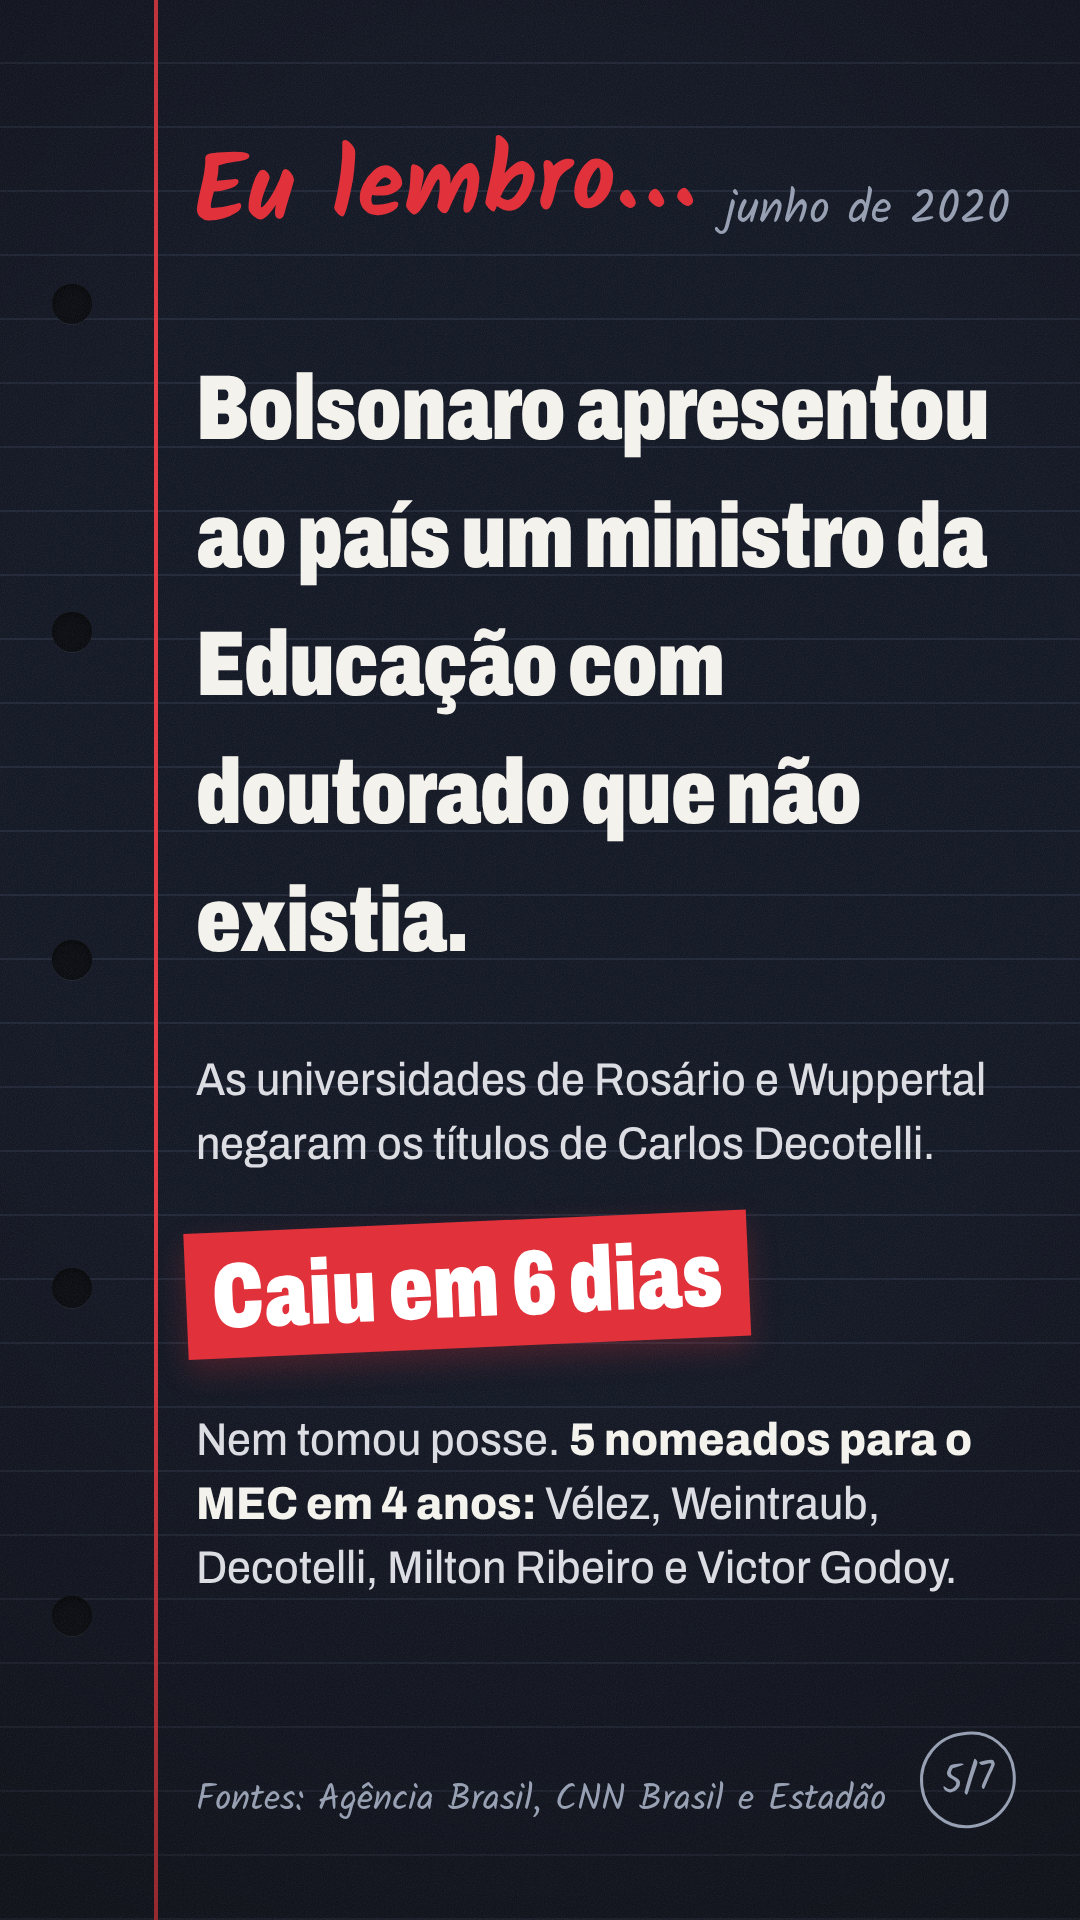
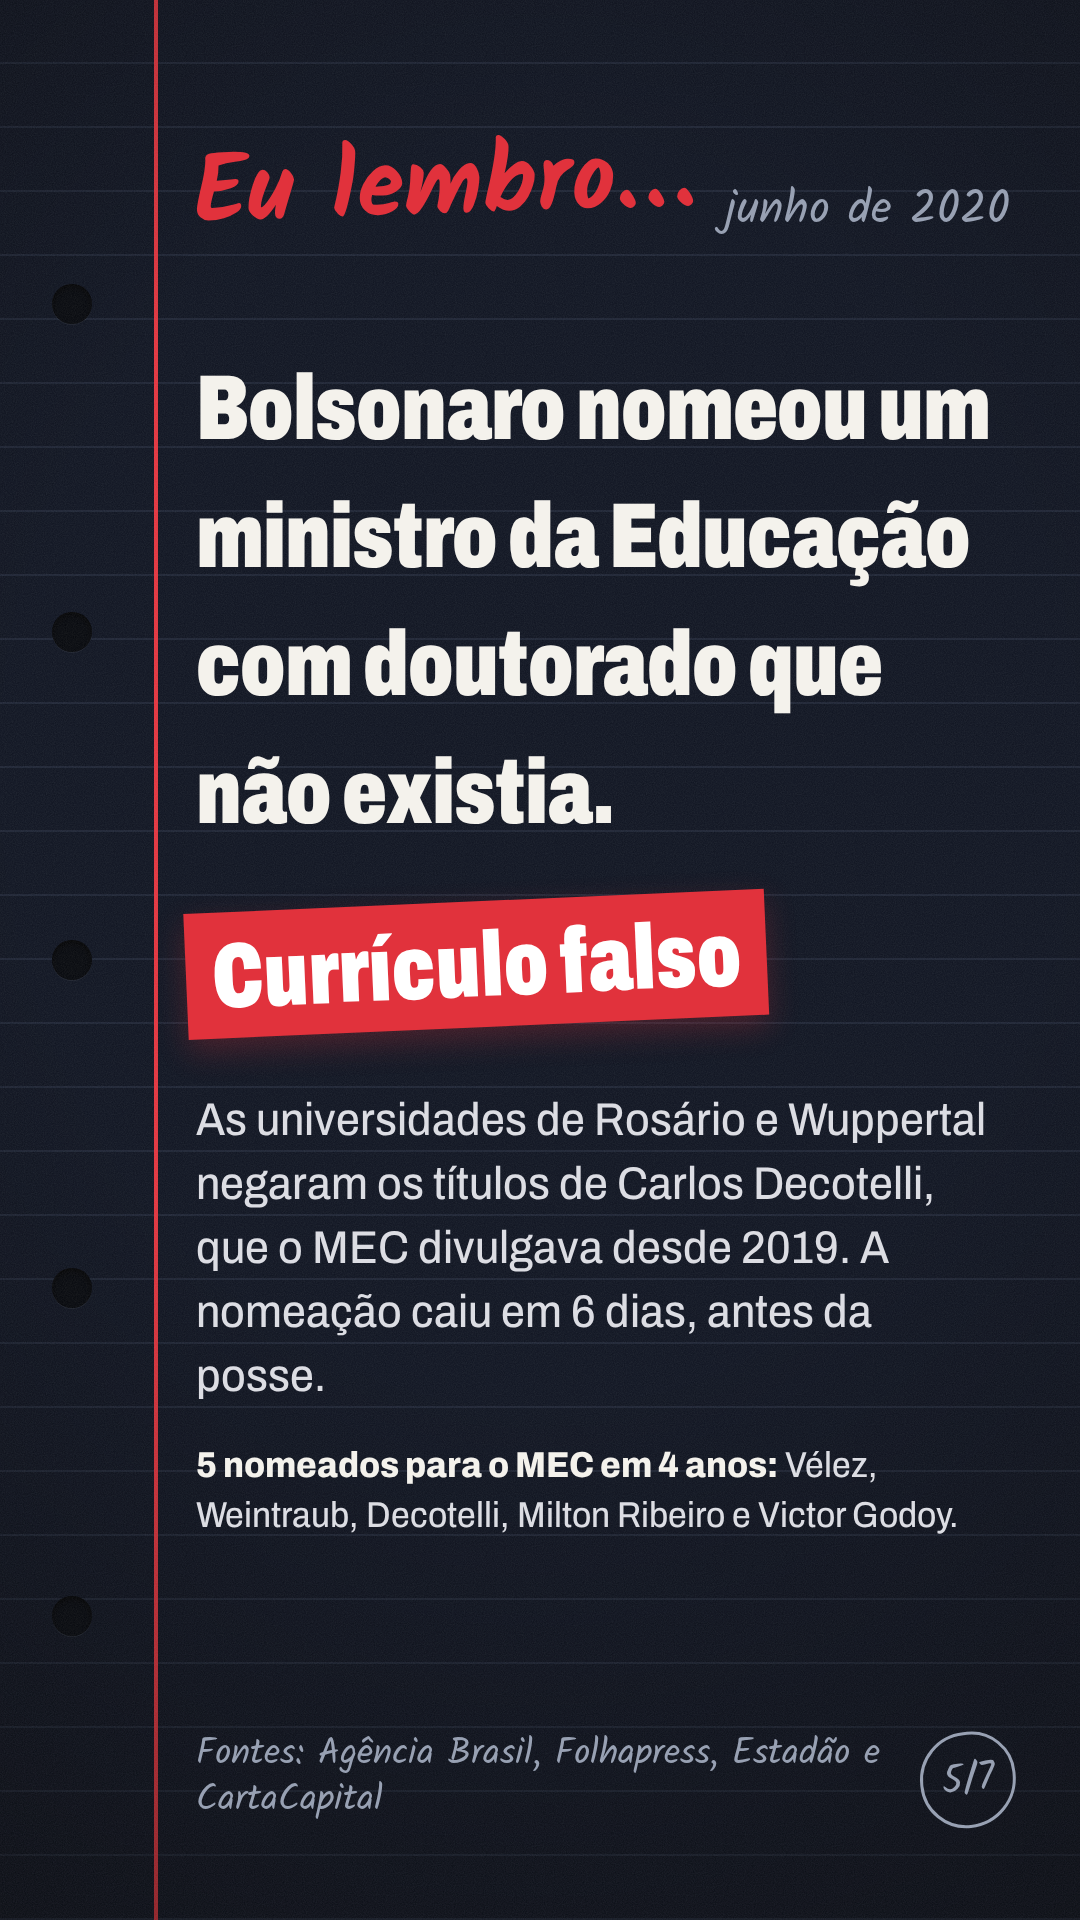
update readme

Changed region(s): [[0.1528, 0.1875, 0.9167, 0.8438], [0.1833, 0.9062, 0.825, 0.9688]]

diff --git a/eu-lembro/codigo/gerar_educacao.py b/eu-lembro/codigo/gerar_educacao.py
@@ -113,11 +113,11 @@ paginas.append(cartao(4, T, "2019 → 2020",
     fonte="Fontes: Gazeta do Povo, Congresso em Foco, Brasil de Fato, Andes-SN e Lei 15.367/2026"))
 
 paginas.append(cartao(5, T, "junho de 2020",
-    "Bolsonaro apresentou ao país um ministro da Educação com doutorado que não existia.", h1=92,
-    textos=["As universidades de Rosário e Wuppertal negaram os títulos de Carlos Decotelli."],
-    numero="Caiu em 6 dias", ordem="tn",
-    depois=['<p>Nem tomou posse. <b style="font-weight:800; color: var(--giz)">5 nomeados para o MEC em 4 anos:</b> Vélez, Weintraub, Decotelli, Milton Ribeiro e Victor Godoy.</p>'],
-    fonte="Fontes: Agência Brasil, CNN Brasil e Estadão"))
+    "Bolsonaro nomeou um ministro da Educação com doutorado que não existia.", h1=92,
+    numero="Currículo falso", ordem="nt",
+    textos=["As universidades de Rosário e Wuppertal negaram os títulos de Carlos Decotelli, que o MEC divulgava desde 2019. A nomeação caiu em 6 dias, antes da posse.",
+            '<p class="ctx" style="margin-top: 32px !important; font-size: 36px; line-height: 50px; color: #DCDDE3"><b style="font-weight:800; color: var(--giz)">5 nomeados para o MEC em 4 anos:</b> Vélez, Weintraub, Decotelli, Milton Ribeiro e Victor Godoy.</p>'],
+    fonte="Fontes: Agência Brasil, Folhapress, Estadão e CartaCapital"))
 
 paginas.append(cartao(6, T, "março de 2021",
     "Bolsonaro vetou internet para alunos na pandemia.", h1=100,
@@ -132,7 +132,6 @@ paginas.append(f"""<section class="pg capa">{furos()}
     <div class="grande" style="font-size: 165px">Eu lembro.<br><em>E você?</em></div>
     <h1 style="margin-top: 96px; font-size: 100px">Não vamos deixar que isso ocorra <span class="risco">novamente.</span></h1>
     <p style="margin-top: 64px">Todos os fatos vêm de atos oficiais, auditorias e imprensa de referência.</p>
-    <p>Esta é uma seleção sobre o governo Bolsonaro. O estudo completo compara o governo Bolsonaro e o atual governo Lula, com as mesmas regras para os dois.</p>
     <p class="ctx" style="margin-top: 40px !important; max-width: 660px">Dados e fontes: github.com/gavelino/pesquisa-politica</p>
   </div>
   <div class="pag">{T}/{T}</div></section>""")

diff --git a/eu-lembro/codigo/gerar_saude.py b/eu-lembro/codigo/gerar_saude.py
@@ -148,7 +148,6 @@ paginas.append(f"""<section class="pg capa">{furos()}
     <div class="grande" style="font-size: 165px">Eu lembro.<br><em>E você?</em></div>
     <h1 style="margin-top: 96px; font-size: 100px">Não vamos deixar que isso ocorra <span class="risco">novamente.</span></h1>
     <p style="margin-top: 64px">Todos os fatos vêm de atos oficiais, auditorias e imprensa de referência.</p>
-    <p>Esta é uma seleção sobre o governo Bolsonaro. O estudo completo compara o governo Bolsonaro e o atual governo Lula, com as mesmas regras para os dois.</p>
     <p class="ctx" style="margin-top: 40px !important; max-width: 660px">Dados e fontes: github.com/gavelino/pesquisa-politica</p>
   </div>
   <div class="pag">{T}/{T}</div></section>""")

diff --git a/eu-lembro/README.md b/eu-lembro/README.md
@@ -2,8 +2,6 @@
 
 Dois stories para o Status do WhatsApp (1080×1920) com fatos documentados sobre educação e saúde no governo Jair Bolsonaro (2019–2022). Cada cartão traz as suas fontes, e cada fonte está listada com link na pasta [`fontes/`](fontes/).
 
-> **Transparência.** Estes stories são uma **seleção** de fatos sobre um dos governos. Eles derivam de dois estudos comparativos que analisam o governo Bolsonaro (2019–2022) e o atual governo Lula (2023–), com as mesmas regras para os dois. Os estudos completos, com achados favoráveis e desfavoráveis a ambos, estão nos links da seção [Estudos de origem](#estudos-de-origem).
-
 ## Stories
 
 ### Educação (7 cartões)
@@ -14,7 +12,7 @@ Dois stories para o Status do WhatsApp (1080×1920) com fatos documentados sobre
 | 2 | [02-universidades.png](stories/educacao/02-universidades.png) | O orçamento das universidades federais encolheu 30% em valores reais (2019→2021) |
 | 3 | [03-bloqueio.png](stories/educacao/03-bloqueio.png) | Bloqueio de 30% da verba de universidades acusadas de "balbúrdia" (abr/2019) |
 | 4 | [04-reitores.png](stories/educacao/04-reitores.png) | Nomeação de reitores que não lideravam a lista; caso da UFPI; Lei 15.367/2026 |
-| 5 | [05-ministro-curriculo.png](stories/educacao/05-ministro-curriculo.png) | Ministro anunciado com doutorado que não existia; 5 nomeados para o MEC em 4 anos |
+| 5 | [05-ministro-curriculo.png](stories/educacao/05-ministro-curriculo.png) | Ministro nomeado com currículo falso (doutorado que não existia); 5 nomeados para o MEC em 4 anos |
 | 6 | [06-internet-veto.png](stories/educacao/06-internet-veto.png) | Veto à internet para 18,6 milhões de alunos e 1,6 milhão de professores na pandemia (mar/2021) |
 | 7 | [07-fechamento.png](stories/educacao/07-fechamento.png) | Fechamento |
 
@@ -33,7 +31,7 @@ Dois stories para o Status do WhatsApp (1080×1920) com fatos documentados sobre
 
 ## Regras de checagem
 
-Os fatos seguem a hierarquia de evidência dos estudos de origem:
+Os fatos seguem esta hierarquia de evidência:
 
 - **A:** dado oficial ou ato publicado (Diário Oficial, SIOP, Ministério da Saúde, leis).
 - **B:** órgão de controle (TCU, CGU) ou literatura revisada por pares.
@@ -42,12 +40,12 @@ Os fatos seguem a hierarquia de evidência dos estudos de origem:
 
 Fatos contestados ou sobre investigações exigem pelo menos dois veículos independentes. Investigações são descritas com o status exato, sem equivaler a condenação. Quando a pessoa citada contesta o fato, a versão dela aparece no próprio cartão. Os números de mortes são apresentados sem atribuição causal a governo.
 
-## Estudos de origem
+## Estudo de origem
 
-- Ações efetivas em Educação: Lula 3 × governo Bolsonaro. [Relatório técnico](https://claude.ai/code/artifact/11a701ec-1831-4fb4-b2cc-714e44ba818e)
-- Ações efetivas em Saúde: Lula 3 × governo Bolsonaro. [Relatório técnico](https://claude.ai/code/artifact/7b715472-226a-4b81-ba92-f840f411d9c2)
+Os fatos do story de Educação vêm do estudo comparativo **"Educação: ações efetivas do governo Lula 3 (2023–2026) x grupo Bolsonaro (2019–2022)"**, que segue um protocolo PICOC congelado antes da coleta e aplica as mesmas regras aos dois governos. Dados, fontes, extrações e relatórios: [github.com/gavelino/pesquisa-politica-educacao-2026](https://github.com/gavelino/pesquisa-politica-educacao-2026).
 
-Veja também o [README principal](../README.md) deste repositório.
+- [Relatório resumido](https://github.com/gavelino/pesquisa-politica-educacao-2026/blob/main/relatorios/relatorio_publico_geral.pdf) (PDF)
+- [Relatório técnico completo](https://github.com/gavelino/pesquisa-politica-educacao-2026/blob/main/relatorios/relatorio_tecnico.pdf) (PDF)
 
 ## Como reproduzir os cartões
 

diff --git a/README.md b/README.md
@@ -2,23 +2,18 @@
 
 Pesquisa política com dados para decisão embasada.
 
-Este repositório reúne estudos que comparam **ações efetivas** de governos, ou seja, o que foi feito quando houve poder de decisão (atos publicados, execução orçamentária, programas, auditorias), e não promessas ou discursos. Também reúne materiais de divulgação derivados desses estudos.
+Este repositório torna públicos os dados e as fontes usados nos stories **"Eu lembro"**, sobre educação e saúde no governo Jair Bolsonaro (2019–2022), publicados no Status do WhatsApp.
 
-## Estudos
+- [`eu-lembro/`](eu-lembro/): os cartões em imagem, a lista de fontes de cada fato (com links) e os scripts que geram as imagens.
 
-Os estudos comparam o governo Lula 3 (2023–) e o governo Jair Bolsonaro (2019–2022), este último como referência do grupo político de Flávio Bolsonaro. Seguem um protocolo PICOC congelado antes da coleta, com as mesmas fontes, buscas e indicadores para os dois governos, valores deflacionados pelo IPCA e sem índice composto.
+Todos os fatos vêm de atos oficiais, auditorias e imprensa de referência. Os critérios de checagem estão no [README dos stories](eu-lembro/README.md#regras-de-checagem).
 
-| Tema | Relatório técnico |
-|---|---|
-| Educação | [Ações efetivas em Educação: Lula 3 × grupo Bolsonaro](https://claude.ai/code/artifact/11a701ec-1831-4fb4-b2cc-714e44ba818e) |
-| Saúde | [Saúde: ações efetivas Lula 3 × grupo Bolsonaro](https://claude.ai/code/artifact/7b715472-226a-4b81-ba92-f840f411d9c2) |
-| Segurança Pública | [Relatório técnico](https://claude.ai/code/artifact/04cc0438-9074-4c3b-b40f-41a37c234cb3) |
+## Estudo de origem
 
-Coleta, verificação e redação dos estudos foram feitas por IA, de propósito, para reduzir vieses humanos num tema polêmico. Não houve validação humana das conclusões.
+Os fatos do story de Educação vêm do estudo comparativo **"Educação: ações efetivas do governo Lula 3 (2023–2026) x grupo Bolsonaro (2019–2022)"**, que segue um protocolo PICOC congelado antes da coleta e aplica as mesmas regras aos dois governos. Dados, fontes, extrações e relatórios: [github.com/gavelino/pesquisa-politica-educacao-2026](https://github.com/gavelino/pesquisa-politica-educacao-2026).
 
-## Materiais de divulgação
-
-- [`eu-lembro/`](eu-lembro/): stories para o Status do WhatsApp sobre educação e saúde no governo Bolsonaro (2019–2022). É uma **seleção** de fatos sobre um dos governos, derivada dos estudos acima, com fonte e link para cada fato.
+- [Relatório resumido](https://github.com/gavelino/pesquisa-politica-educacao-2026/blob/main/relatorios/relatorio_publico_geral.pdf) (PDF)
+- [Relatório técnico completo](https://github.com/gavelino/pesquisa-politica-educacao-2026/blob/main/relatorios/relatorio_tecnico.pdf) (PDF)
 
 ## Licença
 

diff --git a/eu-lembro/fontes/educacao.md b/eu-lembro/fontes/educacao.md
@@ -1,6 +1,6 @@
 # Fontes: story de Educação
 
-Data de acesso das fontes de imprensa: 22/10/2026. Nível de evidência conforme o [README](../README.md#regras-de-checagem). "Relatório técnico" = [Ações efetivas em Educação: Lula 3 × grupo Bolsonaro](https://claude.ai/code/artifact/11a701ec-1831-4fb4-b2cc-714e44ba818e).
+Data de acesso das fontes de imprensa: 22/10/2026. Nível de evidência conforme o [README](../README.md#regras-de-checagem). "Relatório técnico" = [relatório técnico do estudo comparativo de Educação](https://github.com/gavelino/pesquisa-politica-educacao-2026/blob/main/relatorios/relatorio_tecnico.pdf), cujos dados, fontes e extrações estão em [github.com/gavelino/pesquisa-politica-educacao-2026](https://github.com/gavelino/pesquisa-politica-educacao-2026).
 
 ## 02 · Orçamento das universidades federais (2019→2021)
 
@@ -30,11 +30,13 @@ Data de acesso das fontes de imprensa: 22/10/2026. Nível de evidência conforme
 
 ## 05 · Ministro com doutorado que não existia (jun/2020)
 
-- **Fato:** Carlos Decotelli foi anunciado pelo presidente como doutor (Univ. Nacional de Rosário) e pós-doutor (Univ. de Wuppertal). As duas universidades negaram os títulos. A nomeação foi anulada antes da posse.
+- **Fato:** Carlos Decotelli foi anunciado pelo presidente como doutor (Univ. Nacional de Rosário) e pós-doutor (Univ. de Wuppertal). As duas universidades negaram os títulos, que o MEC divulgava desde 2019. A nomeação caiu em 6 dias, antes da posse. O cartão usa "currículo falso" no sentido de currículo com informações falsas, como registrado pela imprensa; não afirma intenção nem crime.
 - **Fontes (D):**
   - Correio Braziliense (Rosário; edição do Lattes): https://www.correiobraziliense.com.br/app/noticia/politica/2020/06/27/interna_politica,867438/ministro-da-educacao-muda-curriculo-apos-reitor-desmentir-sobre-doutor.shtml
   - Jornal de Brasília (Wuppertal; anúncio do presidente): https://jornaldebrasilia.com.br/noticias/politica-e-poder/universidade-alema-nega-que-ministro-da-educacao-tenha-obtido-pos-doutorado/
   - Estadão, via O Povo (versão de Decotelli): https://www.opovo.com.br/noticias/politica/2020/06/29/decotelli-nega-plagio-e-apos-reuniao-com-bolsonaro-afirma-ser-ministro.html
+  - Folhapress, via Banda B ("falsidades" no currículo; edição do Lattes): https://www.bandab.com.br/?p=599206
+  - CartaCapital (o MEC divulgava os títulos desde a passagem dele pelo FNDE): https://www.cartacapital.com.br/?p=133766
 - **Fato:** 5 nomeados para o MEC em 4 anos (Vélez, Weintraub, Decotelli, Milton Ribeiro e Victor Godoy); 4 tomaram posse.
   - Fonte (A): atos de nomeação, conforme o Relatório técnico.
 

diff --git a/eu-lembro/fontes/saude.md b/eu-lembro/fontes/saude.md
@@ -1,6 +1,6 @@
 # Fontes: story de Saúde
 
-Data de acesso das fontes de imprensa: 22/10/2026. Nível de evidência conforme o [README](../README.md#regras-de-checagem). "Relatório técnico" = [Saúde: ações efetivas Lula 3 × grupo Bolsonaro](https://claude.ai/code/artifact/7b715472-226a-4b81-ba92-f840f411d9c2).
+Data de acesso das fontes de imprensa: 22/10/2026. Nível de evidência conforme o [README](../README.md#regras-de-checagem). "Relatório técnico" = relatório técnico do estudo comparativo de Saúde (Lula 3 × governo Bolsonaro), ainda não publicado. Os fatos marcados com essa referência estão listados nas pendências para receber o link da fonte primária.
 
 ## 02 · "E daí?" e os óbitos por COVID
 
@@ -60,6 +60,8 @@ Data de acesso das fontes de imprensa: 22/10/2026. Nível de evidência conforme
   - Fonte (B): TCU, conforme o Relatório técnico.
 
 ## Pendências
+
+- [ ] Links das fontes primárias dos fatos que hoje citam o relatório técnico de Saúde: óbitos por COVID (cartão 02), anulação das notas pelo TCU (03), Manaus (04), ministros (05) e inidoneidade da intermediária (07).
 
 - [ ] Links diretos das matérias sobre a fatura da Madison Biotech (US$ 45 milhões adiantados), cartão 06.
 - [ ] Links diretos das matérias sobre a saída de Mandetta e Teich, cartão 05.
